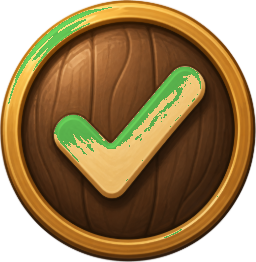
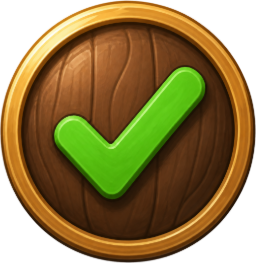
Neue Muehle und neuer Haken drin, Aecker in Bauperspektive
MUEHLE. Das neue Turmbild (Muehle_ohne_Fluegel) ersetzt die beschaedigte
alte Grafik komplett - sauber freigestellt einschliesslich der
eingeschlossenen Weisstaschen zwischen den Gelaenderstaeben. Das
Fluegelkreuz sitzt auf dem im neuen Bild vermessenen Achszapfen
(30 % / 20,5 % der Bildflaeche, der graue Zapfen links am Kegeldach).

HAKEN. ui_ok ist jetzt die gelieferte Grafik mit sattgruenem Haken -
die eingefaerbte Elfenbein-Fassung ist raus.

AECKER. Die Felder liegen jetzt in der BAUPERSPEKTIVE: ihre Kanten
laufen mit derselben 2:1-Steigung wie die Grundkanten der gemalten
Gebaeude (vorher waagerecht/steil - quer zur Welt der Hoefe). Die
Furchen der Textur drehen mit, der Wind schert entlang der Kanten.
Damit die schraegen Vierecke kompakt bleiben, waehlt der Hof beim
Saeen jetzt den Nachbarn, der die Flaeche in der Rautenmetrik am
kompaktesten haelt - vorher ragten einzelne Zellen heraus und die
gezeichneten Flaechen klebten aneinander.

Serviceworker v65.

Claude-Session: https://claude.ai/code/session_01NJiXwFpbq91ri9gPbhzERB

diff --git a/js/render.js b/js/render.js
@@ -3044,19 +3044,21 @@ export class Renderer {
         let cx=0, cy=0;
         for(const [px2,py2] of pos){ cx+=px2; cy+=py2; }
         cx/=pos.length; cy/=pos.length;
-        // Ausdehnung in Gitterachsen messen
-        let su=0.45, sv=0.45;
+        // Achsen wie bei den GEBAEUDEN: deren Grundkanten laufen in der
+        // gemalten Iso-Ansicht mit etwa 2:1-Steigung nach rechts oben und
+        // rechts unten. Ein Acker mit denselben Kanten liegt in derselben
+        // Welt wie die Hoefe - vorher stand er quer zur Bauperspektive.
+        const E1=[TILE, TILE*0.5], E2=[-TILE, TILE*0.5];
+        let su=0.36, sv=0.36;
         for(const [px2,py2] of pos){
-          const pv=(py2-cy)/ROWH, pu=((px2-cx)-TILE*0.5*pv)/TILE;
-          su=Math.max(su, Math.abs(pu)+0.45);
-          sv=Math.max(sv, Math.abs(pv)+0.45);
+          const dx=px2-cx, dy=py2-cy;
+          const pp=(dx/E1[0]+dy/E1[1])/2, qq=(dy/E1[1]-dx/E1[0])/2;
+          su=Math.max(su, Math.abs(pp)+0.36);
+          sv=Math.max(sv, Math.abs(qq)+0.36);
         }
-        const ecke=(fu,fv)=>[cx+fu*su*TILE + fv*sv*TILE*0.5, cy + fv*sv*ROWH];
         const viereck=(f, u0,u1,v0,v1)=>{
-          const A=[cx+u0*TILE+v0*TILE*0.5, cy+v0*ROWH];
-          const B=[cx+u1*TILE+v0*TILE*0.5, cy+v0*ROWH];
-          const C=[cx+u1*TILE+v1*TILE*0.5, cy+v1*ROWH];
-          const D=[cx+u0*TILE+v1*TILE*0.5, cy+v1*ROWH];
+          const P=(pu,pv)=>[cx+pu*E1[0]+pv*E2[0], cy+pu*E1[1]+pv*E2[1]];
+          const A=P(u0,v0), B=P(u1,v0), C=P(u1,v1), D=P(u0,v1);
           f.moveTo(A[0],A[1]); f.lineTo(B[0],B[1]); f.lineTo(C[0],C[1]); f.lineTo(D[0],D[1]); f.closePath();
         };
         const form=new Path2D();
@@ -3077,16 +3079,23 @@ export class Renderer {
             let pp=this._fieldPat.get(ix);
             if(!pp){
               pp=g.createPattern(tex[ix],'repeat');
-              try{ if(pp&&pp.setTransform) pp.setTransform(new DOMMatrix([104/512,0,0,88/512,0,0])); }catch(_){}
+              try{ if(pp&&pp.setTransform){
+                const mtx=new DOMMatrix(); mtx.rotateSelf(26.57); mtx.scaleSelf(104/512, 88/512);
+                pp.setTransform(mtx);
+              } }catch(_){}
               this._fieldPat.set(ix,pp);
             }
             return pp;
           };
           // Grundlage: gepfluegte Erde
           const p0=pat(0);
-          try{ if(p0&&p0.setTransform) p0.setTransform(new DOMMatrix([104/512,0,0,88/512,0,0])); }catch(_){}
+          try{ if(p0&&p0.setTransform){
+            const mtx=new DOMMatrix(); mtx.rotateSelf(26.57); mtx.scaleSelf(104/512, 88/512);
+            p0.setTransform(mtx);
+          } }catch(_){}
           g.fillStyle=p0;
-          g.fillRect(cx-su*TILE-sv*TILE*0.5, cy-sv*ROWH, (su*TILE+sv*TILE*0.5)*2, sv*ROWH*2);
+          const bw2=(su+sv)*TILE, bh2=(su+sv)*TILE*0.5;
+          g.fillRect(cx-bw2, cy-bh2, bw2*2, bh2*2);
           // Wachstum als durchlaufende Baender von unten nach oben: der Hof
           // saet der Reihe nach, entsprechend reift das Feld in Streifen.
           const n1=grp.filter(n=>(m.obj[n]&127)===OBJ.FIELD1).length;
@@ -3099,7 +3108,11 @@ export class Renderer {
             viereck(teil, -su, su, sv-2*sv*anteil, sv);
             const pp=pat(stufe);
             const wob=Math.sin(wPh)*(stufe===2?1.0:0.5);
-            try{ if(pp&&pp.setTransform) pp.setTransform(new DOMMatrix([104/512, 0, 0.05*wob, 88/512, 2.2*wob, 0])); }catch(_){}
+            try{ if(pp&&pp.setTransform){
+              const mtx=new DOMMatrix(); mtx.translateSelf(2.2*wob, 0); mtx.rotateSelf(26.57);
+              mtx.scaleSelf(104/512, 88/512); mtx.skewXSelf(2.8*wob);
+              pp.setTransform(mtx);
+            } }catch(_){}
             g.fillStyle=pp; g.fill(teil);
             g.globalAlpha=0.20; g.strokeStyle='rgba(58,40,24,1)'; g.lineWidth=1.3;
             g.stroke(teil); g.globalAlpha=1;
@@ -3108,10 +3121,11 @@ export class Renderer {
           band(2, f2);
         } else {
           g.fillStyle='#7d5a37';
-          g.fillRect(cx-su*TILE-sv*TILE*0.5, cy-sv*ROWH, (su*TILE+sv*TILE*0.5)*2, sv*ROWH*2);
+          const bw3=(su+sv)*TILE, bh3=(su+sv)*TILE*0.5;
+          g.fillRect(cx-bw3, cy-bh3, bw3*2, bh3*2);
           g.strokeStyle='rgba(58,40,24,0.30)'; g.lineWidth=1.3;
-          for(let yy=Math.floor((cy-sv*ROWH)/7)*7; yy<cy+sv*ROWH; yy+=7){
-            g.beginPath(); g.moveTo(cx-su*TILE-sv*TILE, yy); g.lineTo(cx+su*TILE+sv*TILE, yy); g.stroke();
+          for(let yy=Math.floor((cy-bh3)/7)*7; yy<cy+bh3; yy+=7){
+            g.beginPath(); g.moveTo(cx-bw3, yy); g.lineTo(cx+bw3, yy); g.stroke();
           }
         }
         g.restore();
@@ -4312,9 +4326,9 @@ export class Renderer {
       // Vorher saß sie auf dem linken Dachrand und die Spannweite war fast
       // so groß wie der ganze Turm – die Flügel lagen wie ein Aufkleber quer
       // über dem Dach.
-      // Achszapfen sitzt links vorn am Kegeldach (im Turmbild vermessen:
-      // die kleine graue Lagerplatte mit Haken)
-      const hubX=x-ww/2+ww*0.355, hubY=y-hh+10+hh*0.235;
+      // Achszapfen der neuen Muehle (im Turmbild vermessen: der graue
+      // Zapfen links am Kegeldach)
+      const hubX=x-ww/2+ww*0.30, hubY=y-hh+10+hh*0.205;
       const span=hh*0.62;                    // Flügelspannweite
       const ang= working? this.time/650 : (b.id%6.28);
       g.save();

diff --git a/js/sim.js b/js/sim.js
@@ -1293,17 +1293,30 @@ export class Game {
       if(nach!==undefined) return nach;
     }
     // 2) Eine noch nicht ausgewachsene Fläche erweitern: nur direkt daneben,
-    //    und niemals auf eine andere Fläche zu. Ohne diese Sperre wachsen
-    //    drei Äcker zu einem einzigen großen Feld zusammen und die
-    //    Höchstgröße ist wirkungslos.
+    //    niemals auf eine andere Fläche zu - und in RAUTENFORM. Die Felder
+    //    werden als schräge Vierecke in der Bauperspektive gezeichnet;
+    //    gewählt wird deshalb der Nachbar, der die Fläche in dieser Raute
+    //    am kompaktesten hält, sonst ragen einzelne Zellen aus dem
+    //    gezeichneten Feld heraus bzw. blähen es auf.
     for(const a of b.aecker){
       if(a.length>=Game.ACKER_MAX) continue;
       const fremd=new Set();
       for(const o of b.aecker){ if(o===a) continue; for(const i of o){ fremd.add(i); for(const q of m.nbs(i)) fremd.add(q); } }
-      for(const i of a){
-        const nb=m.nbs(i).find(n=> frei(n) && !a.includes(n) && !fremd.has(n) && nodes.includes(n));
-        if(nb!==undefined){ a.push(nb); return nb; }
+      const [ax0,ay0]=m.worldPos(a[0]);
+      const rMass=(n)=>{
+        const [px,py]=m.worldPos(n);
+        const dx=px-ax0, dy=py-ay0;
+        // Koordinaten in den gezeichneten Feldachsen (2:1-Iso)
+        const pp=(dx/52+dy/26)/2, qq=(dy/26-dx/52)/2;
+        return Math.max(Math.abs(pp), Math.abs(qq));
+      };
+      let best, bm=1e9;
+      for(const i of a) for(const n of m.nbs(i)){
+        if(!frei(n) || a.includes(n) || fremd.has(n) || !nodes.includes(n)) continue;
+        const mv=rMass(n);
+        if(mv<bm){ bm=mv; best=n; }
       }
+      if(best!==undefined){ a.push(best); return best; }
     }
     // 3) Alle Flächen ausgewachsen? Dann eine neue anfangen – mit Abstand,
     //    sonst wachsen zwei Äcker zu einem Klumpen zusammen

diff --git a/sw.js b/sw.js
@@ -6,7 +6,7 @@
 // Server längst die neue auslieferte. Beim Installieren wird zusätzlich am
 // HTTP-Cache vorbei geladen (cache:'reload'), sonst holt sich der neue
 // Serviceworker über die noch gültigen Cache-Header wieder die alten Bytes.
-const BUILD = 'v64';
+const BUILD = 'v65';
 const CACHE = 'neuland-' + BUILD;
 const FILES = [
   './', './index.html', './style.css', './manifest.webmanifest',
